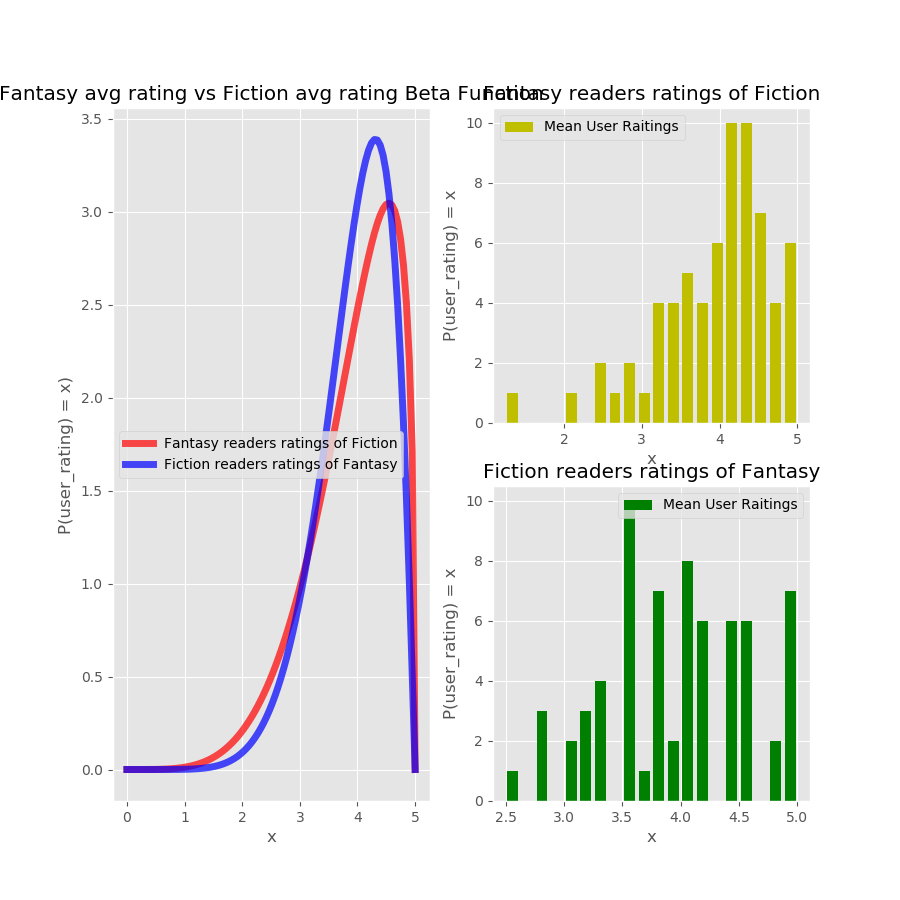
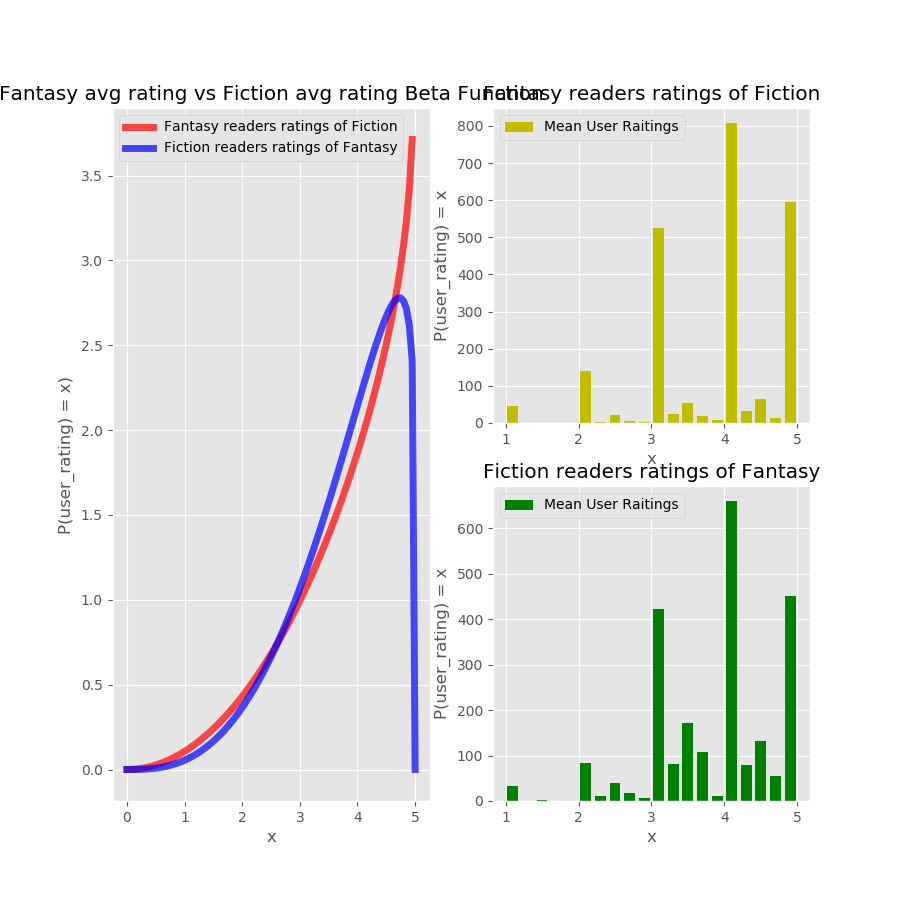
added images

diff --git a/src/GenreTest.py b/src/GenreTest.py
@@ -95,7 +95,7 @@ def dataCleanAdvanced(df):
     print(df[pred])
     return clf
 
-def Ridge_model(df):
+def Ridge_model(df, df1,df2, name):
         X = df['user_rating_x'].values.reshape(-1,1)
         y = df['user_rating_y'].values
         X_train, X_test, y_train, y_test = train_test_split(X, y, test_size=.33, random_state=10)
@@ -106,11 +106,15 @@ def Ridge_model(df):
         a = ridge['lambda'][index]
         pred = Ridge(alpha=a).fit(X_train, y_train).predict(X_test)
         print(LR_R.rmsle(y_test, pred))
-        plt.plot(X_test, pred)
         plt.scatter(X_test, y_test)
+        plt.plot(X_test, pred)
+        plt.ylabel(df2)
+        plt.xlabel(df1)
+        plt.title('Ridge Regression for {}'.format(name))
+        plt.savefig('images/{}_ridge_model'.format(name))
         plt.show()
 
-def Lasso_model(df):
+def Lasso_model(df, df1, df2, name):
     X = df['user_rating_x'].values.reshape(-1,1)
     y = df['user_rating_y'].values
     X_train, X_test, y_train, y_test = train_test_split(X, y, test_size=.33, random_state=10)
@@ -123,9 +127,15 @@ def Lasso_model(df):
     print(LR_L.rmsle(y_test, pred))
     plt.plot(X_test, pred)
     plt.scatter(X_test, y_test)
+    plt.scatter(X_test, y_test)
+    plt.plot(X_test, pred)
+    plt.ylabel(df2)
+    plt.xlabel(df1)
+    plt.title('Lasso Regression for {}'.format(name))
+    plt.savefig('images/{}_lasso_model'.format(name))
     plt.show()
 
-def Linear_Regression(df):
+def Linear_Regression(df, df1, df2, name):
     X = df['user_rating_x'].values.reshape(-1,1)
     y = df['user_rating_y'].values
     X_train, X_test, y_train, y_test = train_test_split(X, y, test_size=.33, random_state=10)
@@ -134,6 +144,12 @@ def Linear_Regression(df):
     print(LR.linearReg(X_test,y_test).rmsle(y_test, pred))
     plt.plot(X_test, pred)
     plt.scatter(X_test, y_test)
+    plt.scatter(X_test, y_test)
+    plt.plot(X_test, pred)
+    plt.ylabel(df2)
+    plt.xlabel(df1)
+    plt.title('Linear Regression for {}'.format(name))
+    plt.savefig('images/{}_linear_model'.format(name))
     plt.show()
 
 if __name__ == '__main__':
@@ -167,20 +183,50 @@ if __name__ == '__main__':
 
     #Creating the first 2 data frames to compare
     df_fantasy= isolate_tag(df_tags_books, 'fantasy', min_books_read)
+    fig = plt.figure(figsize=(7,7))
+    df_fantasy['user_rating'].hist(bins=20)
+    plt.title("Fantasy Mean User Ratings")
+    plt.xlabel('mean user ratings')
+    fig.savefig('images/fantasy_hist.png')
+    plt.show()
+
     df_fic = isolate_tag(df_tags_books, 'fiction', min_books_read)
+    fig = plt.figure(figsize=(7,7))
+    df_fic['user_rating'].hist(bins=20)
+    plt.title("Fiction Mean User Ratings")
+    plt.xlabel('mean user ratings')
+    fig.savefig('images/fiction_hist.png')
+    plt.show()
 
     #setting up Beta distributions and plots
     fantasy_fic, fantasy_fic_df = Beta.Beta(df_fantasy, df_fic, 'user_rating').compile_analysis('Fantasy', 'Fiction', Plot=plot)
+    plt.show()
     print(fantasy_fic)
 
     #history vs literature
     df_vamp = isolate_tag(df_tags_books, 'vampires', min_books_read)
+    fig = plt.figure(figsize=(7,7))
+    df_vamp['user_rating'].hist(bins=20)
+    plt.title("Vampire Mean User Ratings")
+    plt.xlabel('mean user ratings')
+    fig.savefig('images/Vampire_hist.png')
+    plt.show()
+    
     fic_vamp, fic_vamp_df = Beta.Beta(df_fic, df_vamp, 'user_rating').compile_analysis('Fiction','Vampire', Plot=plot)
+    plt.show()
     print(fic_vamp), 
 
     #science vs relgion
     df_sci = isolate_tag(df_tags_books, 'science-fiction', min_books_read)
+    fig = plt.figure(figsize=(7,7))
+    df_sci['user_rating'].hist(bins=20)
+    plt.title("Science-Fiction Mean User Ratings")
+    plt.xlabel('mean user ratings')
+    fig.savefig('images/sci-fi_hist.png')
+    plt.show()
+    
     sci_fant, sci_fant_df = Beta.Beta(df_sci, df_fantasy, 'user_rating').compile_analysis('Science-Fiction','Fantasy', Plot=plot)
+    plt.show()
     print(sci_fant)
 
     #create and test combinations of top 10 tags
@@ -189,10 +235,11 @@ if __name__ == '__main__':
     #print(df_10_comb)
 
     #linear models
-    Ridge_model(fantasy_fic_df)
-    Lasso_model(fantasy_fic_df)
-    Linear_Regression(fantasy_fic_df)
+    Ridge_model(fantasy_fic_df,'Fantasy','Fiction','Fantasy and Fiction')
+    Lasso_model(fantasy_fic_df,'Fantasy','Fiction','Fantasy and Fiction')
+    Linear_Regression(fantasy_fic_df,'Fantasy','Fiction','Fantasy and Fiction')
 
     #building a pivot table
     Rating_Matrix = ratingMatrix(df_tags_books)
     Rating_Matrix = Rating_Matrix.values
+    w, v = np.linalg.eig(Rating_Matrix)

diff --git a/README.md b/README.md
@@ -16,6 +16,7 @@
 
 For this poject I decided to look at book genres and the "bleeding" between genres (the enjoyment of one genre given the enjoyment of another genre). The Goodreads 10k book dataset from kaggle seemed perfect because it countained 10k books, user reviews and user given tags. The data sets was made of four csv files, books, book_tags, ratings, and tags. My end plan is to be able to predict the raitings that someone might give any genre given their enjoyment of one genre. 
 
+# EDA
 My first step was to fiugre out how to put all of the data together so I could search through the data frame. The main problem though is the identifyer I am using are the user generated tags. (tag csv file) When just loading up theses tags, the first thing I noticed was that the majority of the tags are worthless such as to-read, favorite, --31-, and some tags writen in japanese. To deal with this I just did a quick visual search and made a function that removed the most common words I did not care about and would have messed with my analysis.
 ```python
 def dataClean(df):
@@ -31,7 +32,15 @@ After this I needed to find out how group the tags, books, and users so I could 
 
 ![alt text](images/EDA_Bar.png)
 
-After finishing all this up it was off to the races.
+I then looked at the distribution of mean user reviews for the main genres I wanted to look at for this project
+
+![alt text](images/fantasy_hist.png)
+
+![alt text](images/fiction_hist.png)
+
+![alt text](images/Vampire_hist.png)
+
+![alt text](images/sci-fi_hist.png)
 
 ## Baysian A/B testing
 
